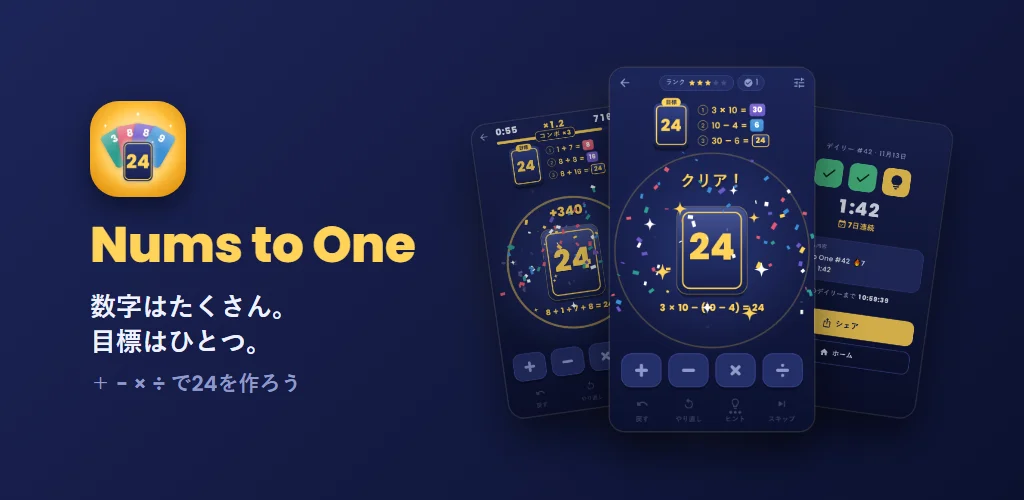
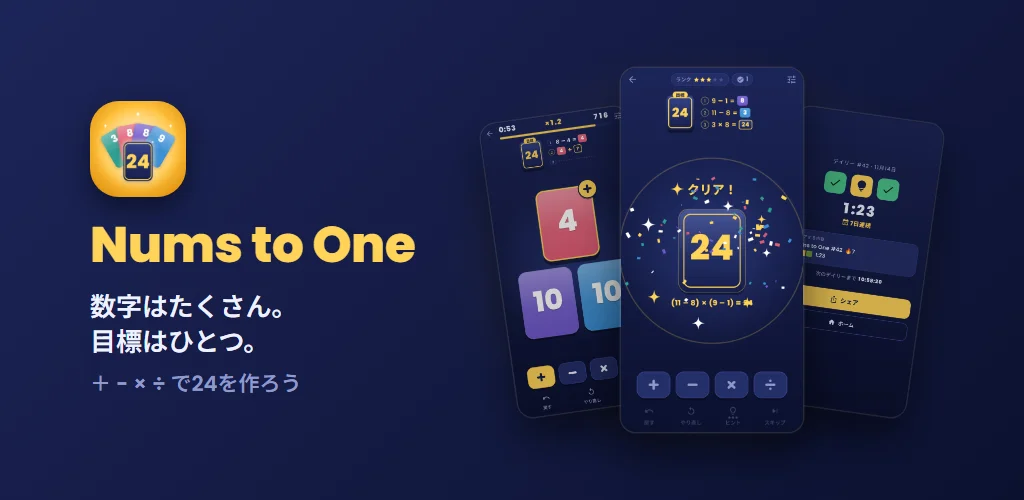
[A00.WilleeProject] + Nums to One 스크린샷 8장(실제 폰 비율)·그래픽 이미지 교체
- A29 63623eb 기준 1080×2160 8장(홈·클래식 풀이·성공·데일리·결과·러시·결과·기록), 설명서·소개 갤러리 5장→8장
- 옛 스크린샷 5장 삭제, 배너는 소개 페이지가 있는 4개 언어만 교체

YouTrack A00_WLPJ-27

diff --git a/apps/nums-to-one/manual/ja.html b/apps/nums-to-one/manual/ja.html
@@ -103,11 +103,14 @@
     <div class="container">
         <h2>スクリーンショット</h2>
         <div class="screenshot-gallery">
-            <img src="../images/NumsToOne_ja_01_classic.webp" alt="クラシック — 24を作った瞬間">
-            <img src="../images/NumsToOne_ja_02_rush.webp" alt="ラッシュ — コンボ">
-            <img src="../images/NumsToOne_ja_03_daily.webp" alt="デイリー — 結果画面">
-            <img src="../images/NumsToOne_ja_04_home.webp" alt="ホーム — クラシック・ラッシュ・デイリー">
-            <img src="../images/NumsToOne_ja_05_records.webp" alt="記録">
+            <img src="../images/NumsToOne_ja_01_home.webp" alt="ホーム — クラシック・デイリー・ラッシュ">
+            <img src="../images/NumsToOne_ja_02_play.webp" alt="クラシック — プレイ中">
+            <img src="../images/NumsToOne_ja_03_classic.webp" alt="クラシック — 24を作った瞬間">
+            <img src="../images/NumsToOne_ja_04_daily.webp" alt="デイリー — プレイ中">
+            <img src="../images/NumsToOne_ja_05_daily_result.webp" alt="デイリー — 結果画面">
+            <img src="../images/NumsToOne_ja_06_rush.webp" alt="ラッシュ — プレイ中">
+            <img src="../images/NumsToOne_ja_07_rush_result.webp" alt="ラッシュ — 結果(ベスト更新)">
+            <img src="../images/NumsToOne_ja_08_records.webp" alt="記録">
         </div>
     </div>
 </section>

diff --git a/apps/nums-to-one/ja.html b/apps/nums-to-one/ja.html
@@ -123,11 +123,14 @@
     <div class="container">
         <h2>スクリーンショット</h2>
         <div class="screenshot-gallery">
-            <img src="images/NumsToOne_ja_01_classic.webp" alt="クラシック — 24を作った瞬間">
-            <img src="images/NumsToOne_ja_02_rush.webp" alt="ラッシュ — コンボ">
-            <img src="images/NumsToOne_ja_03_daily.webp" alt="デイリー — 結果画面">
-            <img src="images/NumsToOne_ja_04_home.webp" alt="ホーム — クラシック・ラッシュ・デイリー">
-            <img src="images/NumsToOne_ja_05_records.webp" alt="記録">
+            <img src="images/NumsToOne_ja_01_home.webp" alt="ホーム — クラシック・デイリー・ラッシュ">
+            <img src="images/NumsToOne_ja_02_play.webp" alt="クラシック — プレイ中">
+            <img src="images/NumsToOne_ja_03_classic.webp" alt="クラシック — 24を作った瞬間">
+            <img src="images/NumsToOne_ja_04_daily.webp" alt="デイリー — プレイ中">
+            <img src="images/NumsToOne_ja_05_daily_result.webp" alt="デイリー — 結果画面">
+            <img src="images/NumsToOne_ja_06_rush.webp" alt="ラッシュ — プレイ中">
+            <img src="images/NumsToOne_ja_07_rush_result.webp" alt="ラッシュ — 結果(ベスト更新)">
+            <img src="images/NumsToOne_ja_08_records.webp" alt="記録">
         </div>
     </div>
 </section>

diff --git a/apps/nums-to-one/manual/zh-Hant.html b/apps/nums-to-one/manual/zh-Hant.html
@@ -103,11 +103,14 @@
     <div class="container">
         <h2>截圖</h2>
         <div class="screenshot-gallery">
-            <img src="../images/NumsToOne_zh-Hant_01_classic.webp" alt="經典 — 湊出 24 的瞬間">
-            <img src="../images/NumsToOne_zh-Hant_02_rush.webp" alt="極速 — 連擊">
-            <img src="../images/NumsToOne_zh-Hant_03_daily.webp" alt="每日挑戰 — 結果畫面">
-            <img src="../images/NumsToOne_zh-Hant_04_home.webp" alt="首頁 — 經典·極速·每日挑戰">
-            <img src="../images/NumsToOne_zh-Hant_05_records.webp" alt="紀錄">
+            <img src="../images/NumsToOne_zh-Hant_01_home.webp" alt="首頁 — 經典·每日挑戰·極速">
+            <img src="../images/NumsToOne_zh-Hant_02_play.webp" alt="經典 — 解題中">
+            <img src="../images/NumsToOne_zh-Hant_03_classic.webp" alt="經典 — 湊出 24 的瞬間">
+            <img src="../images/NumsToOne_zh-Hant_04_daily.webp" alt="每日挑戰 — 解題中">
+            <img src="../images/NumsToOne_zh-Hant_05_daily_result.webp" alt="每日挑戰 — 結果畫面">
+            <img src="../images/NumsToOne_zh-Hant_06_rush.webp" alt="極速 — 解題中">
+            <img src="../images/NumsToOne_zh-Hant_07_rush_result.webp" alt="極速 — 結果（新紀錄）">
+            <img src="../images/NumsToOne_zh-Hant_08_records.webp" alt="紀錄">
         </div>
     </div>
 </section>

diff --git a/apps/nums-to-one/manual/ko.html b/apps/nums-to-one/manual/ko.html
@@ -103,11 +103,14 @@
     <div class="container">
         <h2>스크린샷</h2>
         <div class="screenshot-gallery">
-            <img src="../images/NumsToOne_ko_01_classic.webp" alt="클래식 — 24를 만든 순간">
-            <img src="../images/NumsToOne_ko_02_rush.webp" alt="러시 — 콤보">
-            <img src="../images/NumsToOne_ko_03_daily.webp" alt="데일리 — 결과 화면">
-            <img src="../images/NumsToOne_ko_04_home.webp" alt="홈 — 클래식·러시·데일리">
-            <img src="../images/NumsToOne_ko_05_records.webp" alt="기록">
+            <img src="../images/NumsToOne_ko_01_home.webp" alt="홈 — 클래식·데일리·러시">
+            <img src="../images/NumsToOne_ko_02_play.webp" alt="클래식 — 푸는 중">
+            <img src="../images/NumsToOne_ko_03_classic.webp" alt="클래식 — 24를 만든 순간">
+            <img src="../images/NumsToOne_ko_04_daily.webp" alt="데일리 — 푸는 중">
+            <img src="../images/NumsToOne_ko_05_daily_result.webp" alt="데일리 — 결과 화면">
+            <img src="../images/NumsToOne_ko_06_rush.webp" alt="러시 — 푸는 중">
+            <img src="../images/NumsToOne_ko_07_rush_result.webp" alt="러시 — 결과(새 최고 기록)">
+            <img src="../images/NumsToOne_ko_08_records.webp" alt="기록">
         </div>
     </div>
 </section>

diff --git a/apps/nums-to-one/manual/zh.html b/apps/nums-to-one/manual/zh.html
@@ -103,11 +103,14 @@
     <div class="container">
         <h2>截图</h2>
         <div class="screenshot-gallery">
-            <img src="../images/NumsToOne_zh_01_classic.webp" alt="经典 — 凑出 24 的瞬间">
-            <img src="../images/NumsToOne_zh_02_rush.webp" alt="极速 — 连击">
-            <img src="../images/NumsToOne_zh_03_daily.webp" alt="每日挑战 — 结果界面">
-            <img src="../images/NumsToOne_zh_04_home.webp" alt="主页 — 经典·极速·每日挑战">
-            <img src="../images/NumsToOne_zh_05_records.webp" alt="记录">
+            <img src="../images/NumsToOne_zh_01_home.webp" alt="主页 — 经典·每日挑战·极速">
+            <img src="../images/NumsToOne_zh_02_play.webp" alt="经典 — 解题中">
+            <img src="../images/NumsToOne_zh_03_classic.webp" alt="经典 — 凑出 24 的瞬间">
+            <img src="../images/NumsToOne_zh_04_daily.webp" alt="每日挑战 — 解题中">
+            <img src="../images/NumsToOne_zh_05_daily_result.webp" alt="每日挑战 — 结果画面">
+            <img src="../images/NumsToOne_zh_06_rush.webp" alt="极速 — 解题中">
+            <img src="../images/NumsToOne_zh_07_rush_result.webp" alt="极速 — 结果（新纪录）">
+            <img src="../images/NumsToOne_zh_08_records.webp" alt="记录">
         </div>
     </div>
 </section>

diff --git a/apps/nums-to-one/ko.html b/apps/nums-to-one/ko.html
@@ -123,11 +123,14 @@
     <div class="container">
         <h2>스크린샷</h2>
         <div class="screenshot-gallery">
-            <img src="images/NumsToOne_ko_01_classic.webp" alt="클래식 — 24를 만든 순간">
-            <img src="images/NumsToOne_ko_02_rush.webp" alt="러시 — 콤보">
-            <img src="images/NumsToOne_ko_03_daily.webp" alt="데일리 — 결과 화면">
-            <img src="images/NumsToOne_ko_04_home.webp" alt="홈 — 클래식·러시·데일리">
-            <img src="images/NumsToOne_ko_05_records.webp" alt="기록">
+            <img src="images/NumsToOne_ko_01_home.webp" alt="홈 — 클래식·데일리·러시">
+            <img src="images/NumsToOne_ko_02_play.webp" alt="클래식 — 푸는 중">
+            <img src="images/NumsToOne_ko_03_classic.webp" alt="클래식 — 24를 만든 순간">
+            <img src="images/NumsToOne_ko_04_daily.webp" alt="데일리 — 푸는 중">
+            <img src="images/NumsToOne_ko_05_daily_result.webp" alt="데일리 — 결과 화면">
+            <img src="images/NumsToOne_ko_06_rush.webp" alt="러시 — 푸는 중">
+            <img src="images/NumsToOne_ko_07_rush_result.webp" alt="러시 — 결과(새 최고 기록)">
+            <img src="images/NumsToOne_ko_08_records.webp" alt="기록">
         </div>
     </div>
 </section>

diff --git a/apps/nums-to-one/zh.html b/apps/nums-to-one/zh.html
@@ -123,11 +123,14 @@
     <div class="container">
         <h2>截图</h2>
         <div class="screenshot-gallery">
-            <img src="images/NumsToOne_zh_01_classic.webp" alt="经典 — 凑出 24 的瞬间">
-            <img src="images/NumsToOne_zh_02_rush.webp" alt="极速 — 连击">
-            <img src="images/NumsToOne_zh_03_daily.webp" alt="每日挑战 — 结果界面">
-            <img src="images/NumsToOne_zh_04_home.webp" alt="主页 — 经典·极速·每日挑战">
-            <img src="images/NumsToOne_zh_05_records.webp" alt="记录">
+            <img src="images/NumsToOne_zh_01_home.webp" alt="主页 — 经典·每日挑战·极速">
+            <img src="images/NumsToOne_zh_02_play.webp" alt="经典 — 解题中">
+            <img src="images/NumsToOne_zh_03_classic.webp" alt="经典 — 凑出 24 的瞬间">
+            <img src="images/NumsToOne_zh_04_daily.webp" alt="每日挑战 — 解题中">
+            <img src="images/NumsToOne_zh_05_daily_result.webp" alt="每日挑战 — 结果画面">
+            <img src="images/NumsToOne_zh_06_rush.webp" alt="极速 — 解题中">
+            <img src="images/NumsToOne_zh_07_rush_result.webp" alt="极速 — 结果（新纪录）">
+            <img src="images/NumsToOne_zh_08_records.webp" alt="记录">
         </div>
     </div>
 </section>

diff --git a/apps/nums-to-one/manual/en.html b/apps/nums-to-one/manual/en.html
@@ -103,11 +103,14 @@
     <div class="container">
         <h2>Screenshots</h2>
         <div class="screenshot-gallery">
-            <img src="../images/NumsToOne_en_01_classic.webp" alt="Classic — making 24">
-            <img src="../images/NumsToOne_en_02_rush.webp" alt="Rush — building a combo">
-            <img src="../images/NumsToOne_en_03_daily.webp" alt="Daily — result screen">
-            <img src="../images/NumsToOne_en_04_home.webp" alt="Home — Classic, Rush and Daily">
-            <img src="../images/NumsToOne_en_05_records.webp" alt="Records">
+            <img src="../images/NumsToOne_en_01_home.webp" alt="Home — Classic, Daily and Rush">
+            <img src="../images/NumsToOne_en_02_play.webp" alt="Classic — solving">
+            <img src="../images/NumsToOne_en_03_classic.webp" alt="Classic — making 24">
+            <img src="../images/NumsToOne_en_04_daily.webp" alt="Daily — solving">
+            <img src="../images/NumsToOne_en_05_daily_result.webp" alt="Daily — result">
+            <img src="../images/NumsToOne_en_06_rush.webp" alt="Rush — solving">
+            <img src="../images/NumsToOne_en_07_rush_result.webp" alt="Rush — result (new best)">
+            <img src="../images/NumsToOne_en_08_records.webp" alt="Records">
         </div>
     </div>
 </section>

diff --git a/apps/nums-to-one/en.html b/apps/nums-to-one/en.html
@@ -123,11 +123,14 @@
     <div class="container">
         <h2>Screenshots</h2>
         <div class="screenshot-gallery">
-            <img src="images/NumsToOne_en_01_classic.webp" alt="Classic — making 24">
-            <img src="images/NumsToOne_en_02_rush.webp" alt="Rush — building a combo">
-            <img src="images/NumsToOne_en_03_daily.webp" alt="Daily — result screen">
-            <img src="images/NumsToOne_en_04_home.webp" alt="Home — Classic, Rush and Daily">
-            <img src="images/NumsToOne_en_05_records.webp" alt="Records">
+            <img src="images/NumsToOne_en_01_home.webp" alt="Home — Classic, Daily and Rush">
+            <img src="images/NumsToOne_en_02_play.webp" alt="Classic — solving">
+            <img src="images/NumsToOne_en_03_classic.webp" alt="Classic — making 24">
+            <img src="images/NumsToOne_en_04_daily.webp" alt="Daily — solving">
+            <img src="images/NumsToOne_en_05_daily_result.webp" alt="Daily — result">
+            <img src="images/NumsToOne_en_06_rush.webp" alt="Rush — solving">
+            <img src="images/NumsToOne_en_07_rush_result.webp" alt="Rush — result (new best)">
+            <img src="images/NumsToOne_en_08_records.webp" alt="Records">
         </div>
     </div>
 </section>
